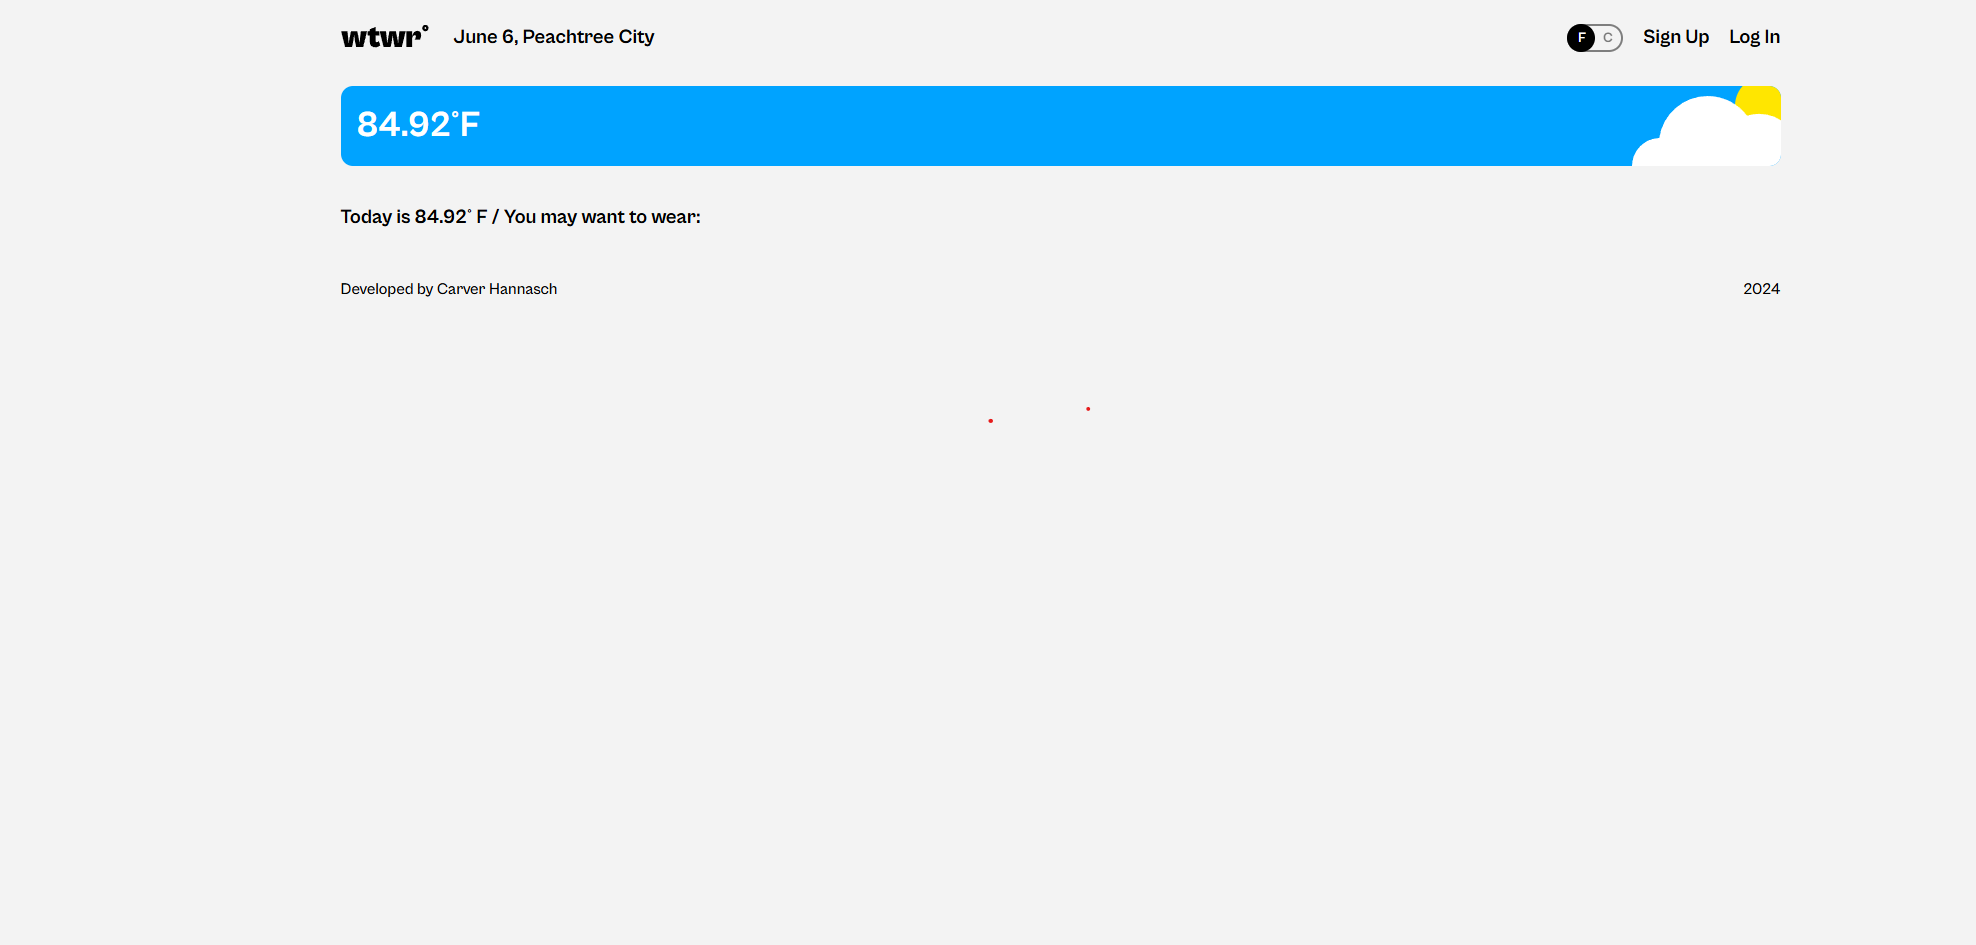
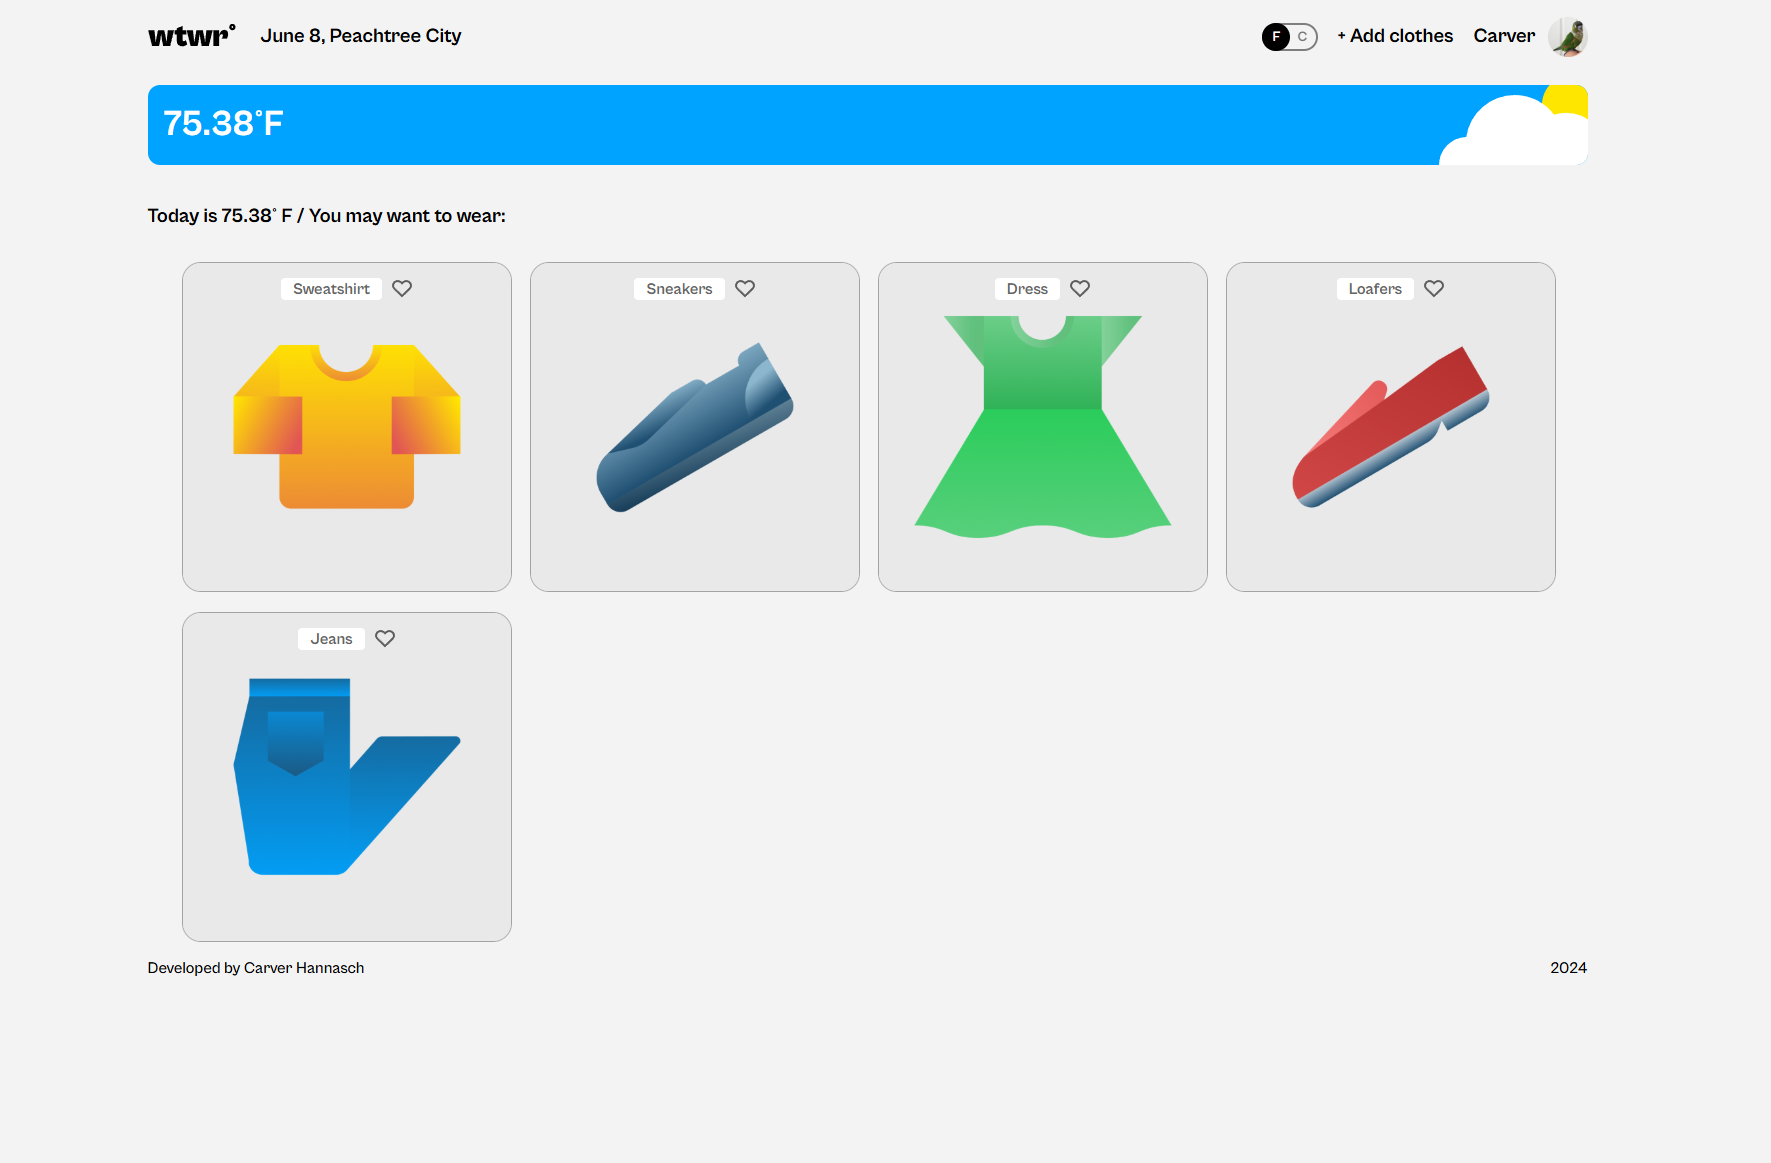
update what to wear project card

diff --git a/src/components/Projects/Projects.tsx b/src/components/Projects/Projects.tsx
@@ -13,7 +13,7 @@ export default function Projects() {
             title="What to Wear"
             description="Dynamic website that uses a 3rd party API to gather weather data and reccomend clothing. Features both a front end and a back end containing clothing items that users can add to by making an account."
             img={wtwr}
-            liveLink=""
+            liveLink="https://wtwr.carverhannasch.com"
             gitHubLink="https://github.com/GamingWizar/se_project_react"
           ></ProjectCard>
           <ProjectCard